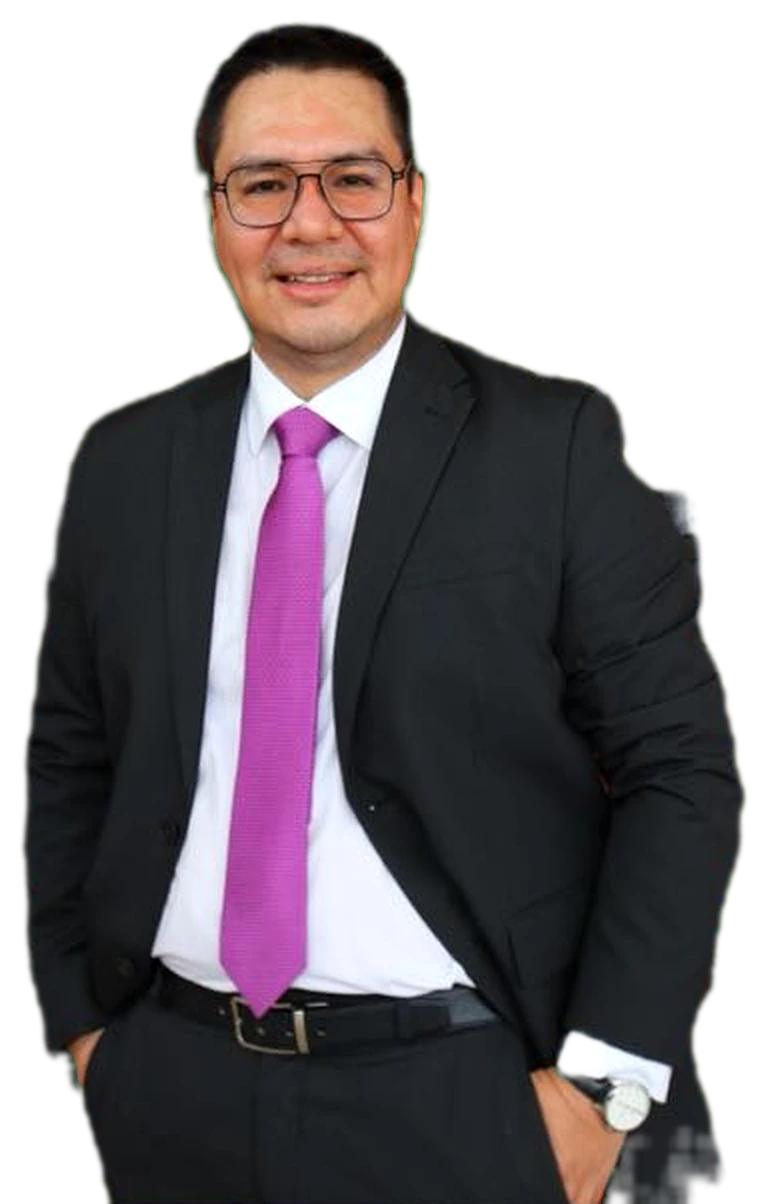
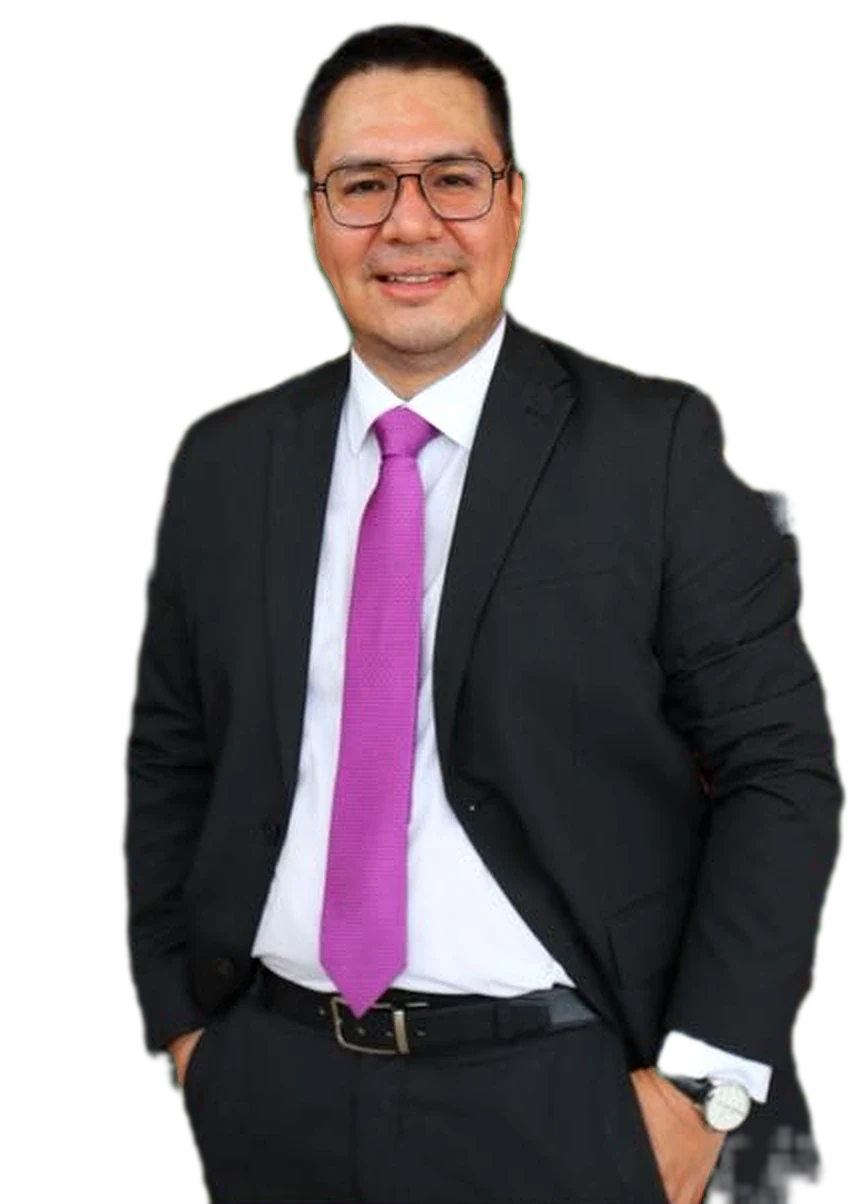
Contacto en azul, foto del director centrada, botones de diagnóstico azules y chat de WhatsApp de vuelta
- Se quita la etiqueta «Firma especializada en Lima, Perú» de la portada.
- La sección de contacto del inicio pasa a fondo azul.
- Foto recentrada y recorte circular propio centrado en el rostro.
- Los botones de los servicios en el inicio pasan a azul.
- Vuelve el chat animado de WhatsApp (abre una ventanita con el mensaje y el botón para iniciar la conversación).

Claude-Session: https://claude.ai/code/session_01DRrA1f2ViK6eLd4rpUrGEB

diff --git a/laravel_app/resources/views/layouts/site.blade.php b/laravel_app/resources/views/layouts/site.blade.php
@@ -281,8 +281,30 @@ body.menu-open .m-menu > *:nth-child(n+2) { transition-delay: .04s; } body.menu-
 .wa::after { animation-delay: 1.3s; }
 @keyframes waPulse { 0% { transform: scale(1); opacity: .5; } 100% { transform: scale(1.7); opacity: 0; } }
 @keyframes waIn { from { transform: scale(0) rotate(-30deg); } to { transform: none; } }
+.wa-badge { position: absolute; top: -2px; right: -2px; z-index: 2; min-width: 22px; height: 22px; border-radius: 11px; background: #FF3B30; color: #fff; font-size: .75rem; font-weight: 800; display: grid; place-items: center; border: 2px solid #fff; transform: scale(0); transition: transform .4s var(--ease); }
+.wa-badge.on { transform: scale(1); }
+.wa-card { position: fixed; right: 22px; bottom: 96px; z-index: 91; width: 330px; max-width: calc(100vw - 32px); background: #fff; border-radius: 20px; box-shadow: 0 30px 80px -20px rgba(10,23,48,.45); overflow: hidden; transform-origin: bottom right; transform: translateY(14px) scale(.9); opacity: 0; visibility: hidden; transition: transform .45s var(--ease), opacity .3s, visibility .3s; }
+.wa-card.open { transform: none; opacity: 1; visibility: visible; }
+.wa-head { background: #075E54; color: #fff; padding: 14px 16px; display: flex; align-items: center; gap: 12px; }
+.wa-av { width: 42px; height: 42px; border-radius: 50%; background: #fff; display: grid; place-items: center; overflow: hidden; flex-shrink: 0; position: relative; }
+.wa-av img { width: 34px; height: auto; }
+.wa-av::after { content: ''; position: absolute; right: 1px; bottom: 1px; width: 11px; height: 11px; border-radius: 50%; background: #25D366; border: 2px solid #075E54; }
+.wa-head b { display: block; font-size: .98rem; }
+.wa-head small { font-size: .8rem; color: rgba(255,255,255,.78); }
+.wa-x { margin-left: auto; background: none; border: 0; color: #fff; font-size: 1.3rem; cursor: pointer; opacity: .8; line-height: 1; }
+.wa-body { background: #ECE5DD; padding: 18px 16px 14px; min-height: 120px; background-image: radial-gradient(rgba(0,0,0,.035) 1px, transparent 1px); background-size: 14px 14px; }
+.wa-msg { background: #fff; border-radius: 0 12px 12px 12px; padding: 10px 12px 18px; font-size: .93rem; line-height: 1.45; max-width: 88%; position: relative; box-shadow: 0 1px 1px rgba(0,0,0,.08); animation: paneIn .4s var(--ease); }
+.wa-msg b { display: block; color: #075E54; font-size: .8rem; margin-bottom: 3px; }
+.wa-msg time { position: absolute; right: 10px; bottom: 4px; font-size: .7rem; color: #8B97AA; }
+.wa-msg + .wa-msg { margin-top: 8px; border-radius: 12px; }
+.wa-typing { display: inline-flex; gap: 4px; background: #fff; padding: 12px 14px; border-radius: 0 12px 12px 12px; }
+.wa-typing i { width: 7px; height: 7px; border-radius: 50%; background: #A0A8B5; animation: dot 1.2s infinite; }
+.wa-typing i:nth-child(2) { animation-delay: .15s; } .wa-typing i:nth-child(3) { animation-delay: .3s; }
 @keyframes dot { 0%, 60%, 100% { transform: translateY(0); opacity: .5; } 30% { transform: translateY(-4px); opacity: 1; } }
-@media (max-width: 720px) { .wa { right: 16px; bottom: 16px; width: 56px; height: 56px; } }
+.wa-go { display: flex; align-items: center; justify-content: center; gap: 10px; margin: 12px 14px 14px; padding: 13px; border-radius: 999px; background: #25D366; color: #fff; font-weight: 800; transition: background .2s; }
+.wa-go:hover { background: #1EBE5A; }
+.wa-go svg { width: 20px; height: 20px; fill: #fff; }
+@media (max-width: 720px) { .wa { right: 16px; bottom: 16px; width: 56px; height: 56px; } .wa-card { right: 16px; bottom: 84px; } }
 @media (prefers-reduced-motion: reduce) { .wa::before, .wa::after { animation: none; } }
 
 /* Mensajes y cargador */
@@ -390,7 +412,16 @@ body.menu-open .m-menu > *:nth-child(n+2) { transition-delay: .04s; } body.menu-
   </div>
 </footer>
 
-<a class="wa" id="waBtn" href="https://wa.me/{{ \App\Support\ServiceCatalog::WHATSAPP }}" target="_blank" rel="noopener" aria-label="Escribir por WhatsApp" data-no-loader><svg viewBox="0 0 24 24"><path d="M17.47 14.38c-.3-.15-1.76-.87-2.03-.97-.27-.1-.47-.15-.67.15-.2.3-.77.97-.94 1.16-.17.2-.35.22-.64.07-.3-.15-1.26-.46-2.39-1.47-.88-.79-1.48-1.76-1.65-2.06-.17-.3-.02-.46.13-.6.13-.14.3-.35.45-.52.15-.17.2-.3.3-.5.1-.2.05-.37-.03-.52-.07-.15-.67-1.61-.92-2.2-.24-.58-.49-.5-.67-.51h-.57c-.2 0-.52.07-.79.37-.27.3-1.04 1.02-1.04 2.48s1.07 2.88 1.21 3.07c.15.2 2.1 3.2 5.08 4.49.71.31 1.26.49 1.7.63.71.22 1.36.19 1.87.12.57-.09 1.76-.72 2-1.41.25-.7.25-1.29.17-1.41-.07-.13-.27-.2-.57-.35zM12.05 21.8h-.01a9.87 9.87 0 01-5.03-1.38l-.36-.21-3.74.98 1-3.65-.24-.37a9.86 9.86 0 01-1.51-5.26C2.16 6.46 6.6 2.03 12.05 2.03c2.64 0 5.12 1.03 6.99 2.9a9.82 9.82 0 012.89 7c0 5.45-4.44 9.88-9.88 9.88zm8.41-18.3A11.82 11.82 0 0012.05 0C5.5 0 .16 5.34.16 11.89c0 2.1.55 4.14 1.59 5.95L.06 24l6.3-1.65a11.88 11.88 0 005.68 1.45h.01c6.55 0 11.89-5.34 11.89-11.89 0-3.18-1.24-6.17-3.48-8.41z"/></svg></a>
+<div class="wa-card" id="waCard" role="dialog" aria-label="Chat de WhatsApp con Romani Compliance">
+  <div class="wa-head">
+    <span class="wa-av"><img src="{{ asset('images/logos.png') }}" alt=""></span>
+    <span><b>Romani Compliance</b><small id="waStatus">en línea</small></span>
+    <button type="button" class="wa-x" id="waClose" aria-label="Cerrar">×</button>
+  </div>
+  <div class="wa-body" id="waBody"></div>
+  <a class="wa-go" id="waGo" href="https://wa.me/{{ \App\Support\ServiceCatalog::WHATSAPP }}" target="_blank" rel="noopener"><svg viewBox="0 0 24 24"><path d="M17.47 14.38c-.3-.15-1.76-.87-2.03-.97-.27-.1-.47-.15-.67.15-.2.3-.77.97-.94 1.16-.17.2-.35.22-.64.07-.3-.15-1.26-.46-2.39-1.47-.88-.79-1.48-1.76-1.65-2.06-.17-.3-.02-.46.13-.6.13-.14.3-.35.45-.52.15-.17.2-.3.3-.5.1-.2.05-.37-.03-.52-.07-.15-.67-1.61-.92-2.2-.24-.58-.49-.5-.67-.51h-.57c-.2 0-.52.07-.79.37-.27.3-1.04 1.02-1.04 2.48s1.07 2.88 1.21 3.07c.15.2 2.1 3.2 5.08 4.49.71.31 1.26.49 1.7.63.71.22 1.36.19 1.87.12.57-.09 1.76-.72 2-1.41.25-.7.25-1.29.17-1.41-.07-.13-.27-.2-.57-.35zM12.05 21.8h-.01a9.87 9.87 0 01-5.03-1.38l-.36-.21-3.74.98 1-3.65-.24-.37a9.86 9.86 0 01-1.51-5.26C2.16 6.46 6.6 2.03 12.05 2.03c2.64 0 5.12 1.03 6.99 2.9a9.82 9.82 0 012.89 7c0 5.45-4.44 9.88-9.88 9.88zm8.41-18.3A11.82 11.82 0 0012.05 0C5.5 0 .16 5.34.16 11.89c0 2.1.55 4.14 1.59 5.95L.06 24l6.3-1.65a11.88 11.88 0 005.68 1.45h.01c6.55 0 11.89-5.34 11.89-11.89 0-3.18-1.24-6.17-3.48-8.41z"/></svg> Iniciar conversación</a>
+</div>
+<button type="button" class="wa" id="waBtn" aria-label="Abrir chat de WhatsApp" aria-expanded="false"><svg viewBox="0 0 24 24"><path d="M17.47 14.38c-.3-.15-1.76-.87-2.03-.97-.27-.1-.47-.15-.67.15-.2.3-.77.97-.94 1.16-.17.2-.35.22-.64.07-.3-.15-1.26-.46-2.39-1.47-.88-.79-1.48-1.76-1.65-2.06-.17-.3-.02-.46.13-.6.13-.14.3-.35.45-.52.15-.17.2-.3.3-.5.1-.2.05-.37-.03-.52-.07-.15-.67-1.61-.92-2.2-.24-.58-.49-.5-.67-.51h-.57c-.2 0-.52.07-.79.37-.27.3-1.04 1.02-1.04 2.48s1.07 2.88 1.21 3.07c.15.2 2.1 3.2 5.08 4.49.71.31 1.26.49 1.7.63.71.22 1.36.19 1.87.12.57-.09 1.76-.72 2-1.41.25-.7.25-1.29.17-1.41-.07-.13-.27-.2-.57-.35zM12.05 21.8h-.01a9.87 9.87 0 01-5.03-1.38l-.36-.21-3.74.98 1-3.65-.24-.37a9.86 9.86 0 01-1.51-5.26C2.16 6.46 6.6 2.03 12.05 2.03c2.64 0 5.12 1.03 6.99 2.9a9.82 9.82 0 012.89 7c0 5.45-4.44 9.88-9.88 9.88zm8.41-18.3A11.82 11.82 0 0012.05 0C5.5 0 .16 5.34.16 11.89c0 2.1.55 4.14 1.59 5.95L.06 24l6.3-1.65a11.88 11.88 0 005.68 1.45h.01c6.55 0 11.89-5.34 11.89-11.89 0-3.18-1.24-6.17-3.48-8.41z"/></svg><span class="wa-badge" id="waBadge">1</span></button>
 
 <script>
 // Utilidades del sitio (navegación, animaciones, líneas de tiempo, WhatsApp).
@@ -463,10 +494,32 @@ window.RC = (function () {
   }, true);
   addEventListener('pageshow', () => loader.classList.remove('active'));
 
-  // WhatsApp: abre el chat directamente con un saludo
+  // WhatsApp: notificación, «escribiendo…» y mensaje de Romani Compliance
   (function () {
+    const btn = document.getElementById('waBtn'), card = document.getElementById('waCard'), body = document.getElementById('waBody');
+    const badge = document.getElementById('waBadge'), status = document.getElementById('waStatus'), go = document.getElementById('waGo');
     const ctx = document.title.split(' · ')[0];
-    document.getElementById('waBtn').href = 'https://wa.me/' + WA + '?text=' + encodeURIComponent('Hola, quisiera hacer una consulta a Romani Compliance' + (location.pathname !== '/' ? ' sobre «' + ctx + '»' : '') + '.');
+    go.href = 'https://wa.me/' + WA + '?text=' + encodeURIComponent('Hola, quisiera hacer una consulta a Romani Compliance' + (location.pathname !== '/' ? ' sobre «' + ctx + '»' : '') + '.');
+    const hhmm = () => new Date().toLocaleTimeString('es-PE', { hour: '2-digit', minute: '2-digit' });
+    let played = false;
+    function play() {
+      if (played) return; played = true;
+      body.innerHTML = '<div class="wa-typing"><i></i><i></i><i></i></div>'; status.textContent = 'escribiendo…';
+      setTimeout(() => {
+        body.innerHTML = '<div class="wa-msg"><b>Romani Compliance</b>Hola, gracias por visitarnos. 👋<time>' + hhmm() + '</time></div>';
+        status.textContent = 'en línea';
+        setTimeout(() => { body.insertAdjacentHTML('beforeend', '<div class="wa-msg">¿En qué podemos ayudarle? Escríbanos y un abogado del equipo le responderá.<time>' + hhmm() + '</time></div>'); }, 900);
+      }, 1400);
+    }
+    const set = (o) => { card.classList.toggle('open', o); btn.setAttribute('aria-expanded', o); if (o) { badge.classList.remove('on'); play(); try { sessionStorage.setItem('rcWaSeen', '1'); } catch (_) {} } };
+    btn.addEventListener('click', () => set(!card.classList.contains('open')));
+    document.getElementById('waClose').addEventListener('click', () => set(false));
+    let seen = false; try { seen = sessionStorage.getItem('rcWaSeen') === '1'; } catch (_) {}
+    if (!seen) {
+      setTimeout(() => badge.classList.add('on'), 3500);
+      // En escritorio se abre solo una vez por visita; en el móvil solo aparece la notificación.
+      if (matchMedia('(min-width: 721px)').matches) setTimeout(() => { if (!document.body.classList.contains('menu-open')) set(true); }, 9000);
+    }
   })();
 
   return {

diff --git a/laravel_app/resources/views/home.blade.php b/laravel_app/resources/views/home.blade.php
@@ -105,7 +105,7 @@
 /* Dirección (compacta) */
 .dir { display: grid; grid-template-columns: auto 1fr; gap: clamp(22px, 4vw, 48px); align-items: center; background: var(--soft); border-radius: 28px; padding: clamp(22px, 4vw, 44px); }
 .dir-ph { width: 190px; height: 190px; border-radius: 50%; overflow: hidden; background: radial-gradient(circle at 50% 35%, #2F5FE6, #10264D 70%); position: relative; flex-shrink: 0; }
-.dir-ph img { position: absolute; left: 50%; top: 6%; transform: translateX(-50%); width: 112%; max-width: none; height: auto; }
+.dir-ph img { width: 100%; height: 100%; object-fit: cover; object-position: 50% 15%; }
 .dir h2 { font-size: clamp(1.5rem, 3vw, 2.2rem); font-weight: 800; letter-spacing: -0.03em; }
 .dir .role { color: var(--blue); font-weight: 700; margin: 6px 0 14px; }
 .dir p.bio { color: var(--muted); max-width: 640px; }
@@ -113,7 +113,16 @@
 .dir .contact { display: flex; gap: 10px 22px; flex-wrap: wrap; margin-top: 18px; }
 @media (max-width: 720px) { .dir { grid-template-columns: 1fr; text-align: left; } .dir-ph { width: 96px; height: 96px; } .dir-top { display: flex; gap: 16px; align-items: center; } .dir p.bio { font-size: .95rem; } }
 
-/* Contacto */
+/* Contacto en azul */
+.ct-sec { position: relative; overflow: hidden; color: #fff; background: linear-gradient(150deg, var(--ink) 0%, #10264D 45%, #1F4FD8 140%); }
+.ct-sec::before { content: ''; position: absolute; width: 620px; height: 620px; right: -200px; top: -260px; border-radius: 50%; background: radial-gradient(circle, rgba(127,163,255,.3), transparent 62%); pointer-events: none; }
+.ct-sec .wrap { position: relative; }
+.ct-sec .lead { color: rgba(255,255,255,.75); }
+.ct-sec .ct-ch a { background: rgba(255,255,255,.07); border-color: rgba(255,255,255,.14); color: #fff; }
+.ct-sec .ct-ch a:hover { border-color: var(--blue-l); background: rgba(255,255,255,.12); }
+.ct-sec .ct-ch a .icon-tile { background: rgba(127,163,255,.18); color: var(--blue-l); }
+.ct-sec .ct-ch small { color: rgba(255,255,255,.6); }
+.ct-sec .form { color: var(--ink); border-color: transparent; box-shadow: 0 40px 90px -40px rgba(0,0,0,.6); }
 .ct { display: grid; grid-template-columns: 0.9fr 1.1fr; gap: clamp(36px, 6vw, 96px); align-items: start; }
 .ct-ch { display: grid; gap: 12px; margin-top: 30px; }
 .ct-ch a { display: flex; align-items: center; gap: 16px; padding: 18px 20px; border-radius: 16px; border: 1px solid var(--line); background: #fff; font-weight: 700; transition: border-color .25s; }
@@ -136,7 +145,6 @@
 <section class="hero">
   <span class="glow g1" aria-hidden="true"></span><span class="glow g2" aria-hidden="true"></span>
   <div class="wrap">
-    <div class="hero-tag rv"><i></i> Firma especializada en Lima, Perú</div>
     <h1 class="display" id="heroTitle">Especialistas en compliance penal y <em>prevención de lavado de activos.</em></h1>
     <p class="lead rv" style="--d:.35s">Acompañamos a empresas, sujetos obligados y proveedores de activos virtuales en el Perú: diseñamos su sistema de prevención, respondemos ante la UIF y la Fiscalía, y defendemos cuando hay una investigación.</p>
     <div class="hero-acts rv" style="--d:.45s">
@@ -176,10 +184,10 @@
             <div class="chips">@foreach(array_slice($s['includes'], 0, 3) as $it)<span class="chip">@include('site.partials.icon', ['name' => 'check']) {{ $it }}</span>@endforeach</div>
             <div class="acts">
               @if(isset($s['cta2']))
-                <a href="{{ route('services.show', $slug) }}#inmobiliario" class="b b-light">{{ $s['cta'] }} @include('site.partials.icon', ['name' => 'arrow'])</a>
+                <a href="{{ route('services.show', $slug) }}#inmobiliario" class="b b-primary">{{ $s['cta'] }} @include('site.partials.icon', ['name' => 'arrow'])</a>
                 <a href="{{ route('services.show', $slug) }}#notarial" class="b b-ghost-dark">{{ $s['cta2'] }}</a>
               @else
-                <a href="{{ route('services.show', $slug) }}" class="b b-light">{{ $s['cta'] }} @include('site.partials.icon', ['name' => 'arrow'])</a>
+                <a href="{{ route('services.show', $slug) }}" class="b b-primary">{{ $s['cta'] }} @include('site.partials.icon', ['name' => 'arrow'])</a>
               @endif
             </div>
           </div>
@@ -233,7 +241,7 @@
   <div class="wrap">
     <div class="dir rv">
       <div class="dir-top">
-        <div class="dir-ph"><img src="{{ asset('images/denis-romani.webp') }}" alt="Denis Gabriel Romani Seminario" loading="lazy"></div>
+        <div class="dir-ph"><img src="{{ asset('images/denis-romani-avatar.webp') }}?v=2" alt="Denis Gabriel Romani Seminario" loading="lazy"></div>
       </div>
       <div>
         <div class="kicker">Dirección</div>
@@ -282,7 +290,7 @@
   </div>
 </section>
 
-<section class="sec" id="contacto">
+<section class="sec ct-sec on-dark" id="contacto">
   <div class="wrap ct">
     <div>
       <div class="kicker rv">Contacto</div>

diff --git a/laravel_app/resources/views/equipo.blade.php b/laravel_app/resources/views/equipo.blade.php
@@ -45,7 +45,7 @@
 @if($director)
 <section class="sec" style="padding-top:0">
   <div class="wrap lead-m">
-    <div class="ph rv"><img src="{{ asset('images/denis-romani.webp') }}" alt="{{ $director->name }}"></div>
+    <div class="ph rv"><img src="{{ asset('images/denis-romani.webp') }}?v=2" alt="{{ $director->name }}"></div>
     <div>
       <div class="kicker rv">Dirección</div>
       <h2 class="h2 rv">{{ $director->name }}</h2>
